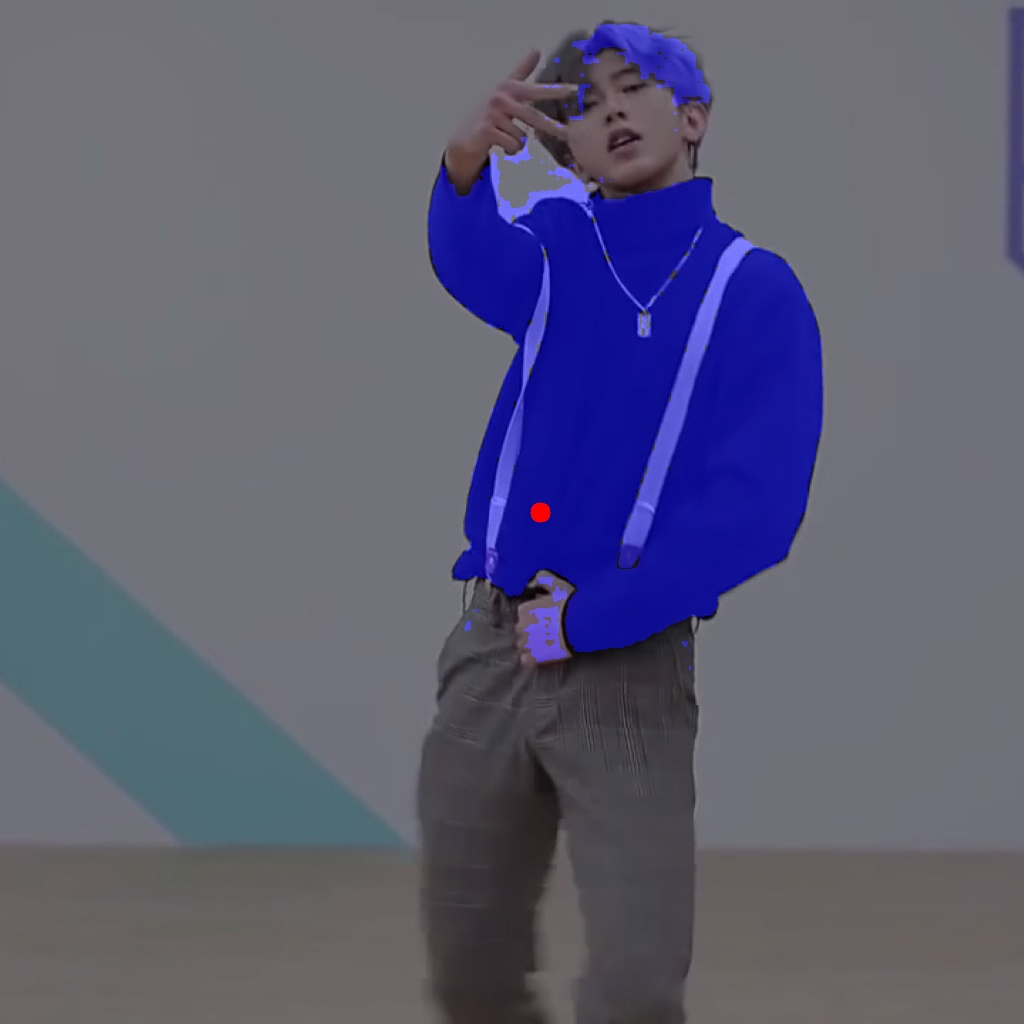
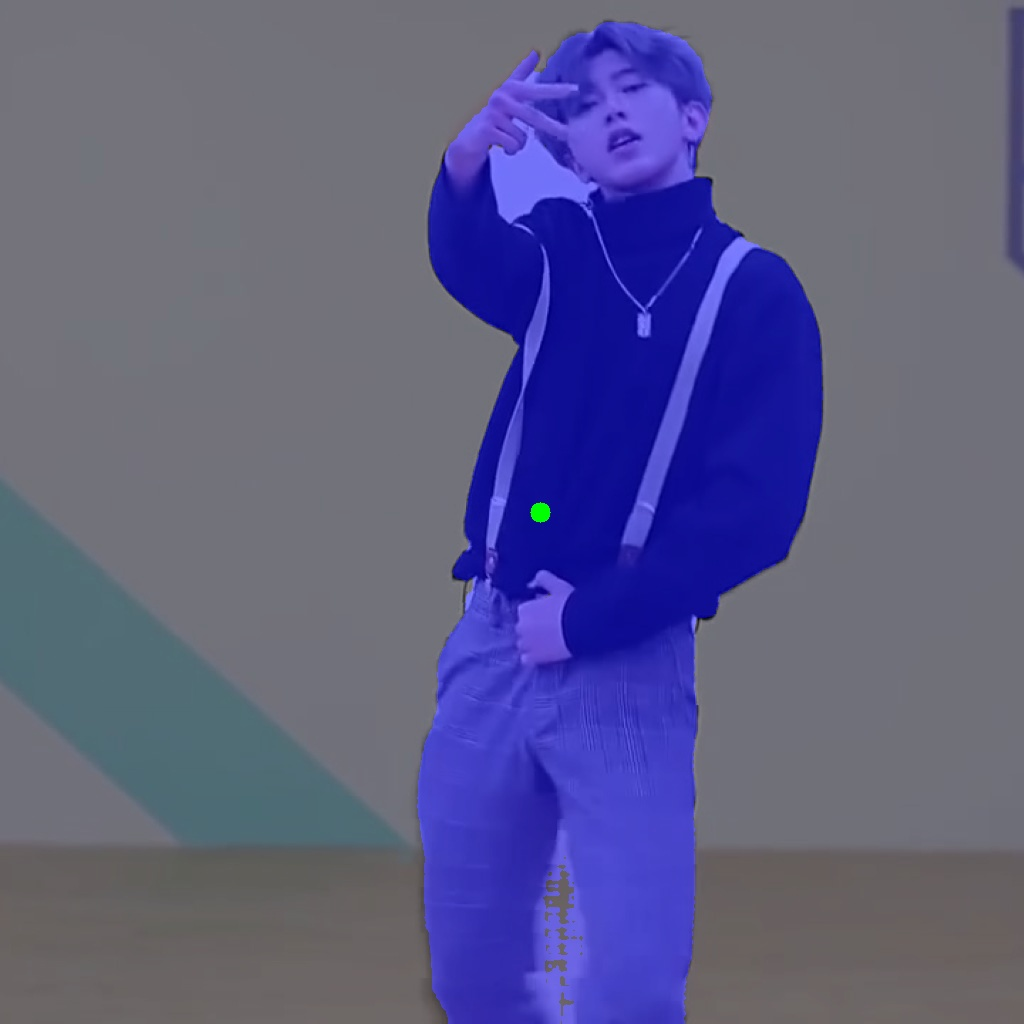
Fix label

diff --git a/run_sam_rknn.py b/run_sam_rknn.py
@@ -204,7 +204,7 @@ if __name__ == "__main__":
     image = cv2.imread("input.jpg")
     embedding = segmenter.encode(image)
     prompt = [
-        {"type": "point", "data": [540, 512], "label": 0},
+        {"type": "point", "data": [540, 512], "label": 1},
     ]
     masks = segmenter.predict_masks(embedding, prompt)
     print(masks.shape)

diff --git a/README.md b/README.md
@@ -21,7 +21,7 @@ license: unknown
 
 提示：
 
-`{"type": "point", "data": [540, 512], "label": 0}`
+`{"type": "point", "data": [540, 512], "label": 1}`
 
 输出:
 
@@ -61,7 +61,7 @@ Input:
 
 Prompt:
 
-`{"type": "point", "data": [540, 512], "label": 0}`
+`{"type": "point", "data": [540, 512], "label": 1}`
 
 Output:
 
